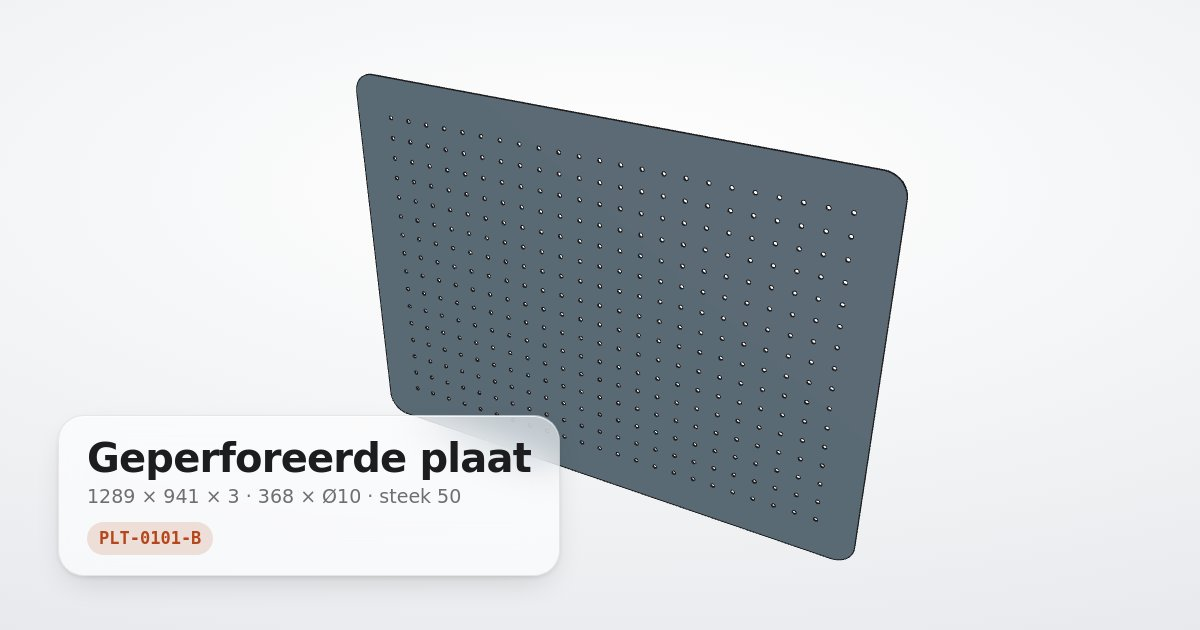
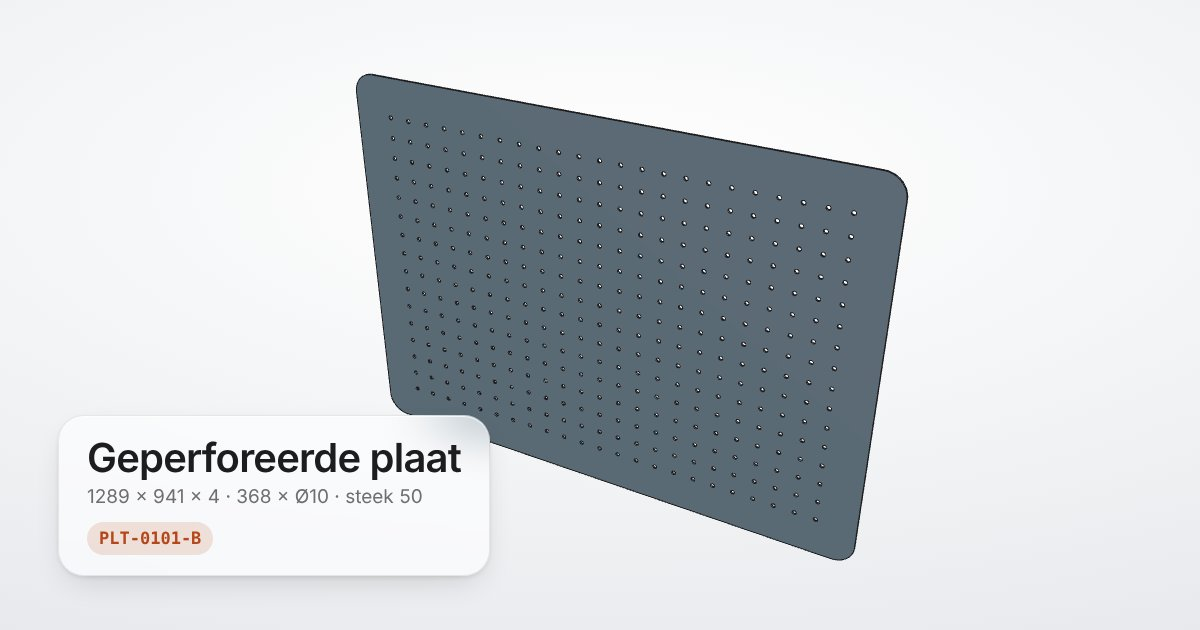
PLT-0101 revisie B (concept): dikte 4 mm
Dikte opgegeven door de eigenaar (was in A 3 mm aangenomen). B is nog een
concept, dus aangepast in B zelf; A blijft ongewijzigd (enkel linkvoorbeeld).

Claude-Session: https://claude.ai/code/session_01XXJD1Dkf3JZyJweGTUJbua

Changed region(s): [[0.0617, 0.6333, 0.4933, 0.8143], [0.4008, 0.9048, 0.4317, 0.9349]]

diff --git a/drawings/PLT-0101/B.html b/drawings/PLT-0101/B.html
@@ -5,11 +5,11 @@
 <meta name="viewport" content="width=device-width,initial-scale=1,viewport-fit=cover">
 <title>Geperforeerde plaat</title>
 <!-- link-preview -->
-<meta name="description" content="Plaat 1289 × 941 × 3 met hoeken R50 en gaten Ø10 op een vierkant raster, uit Plaat_perforaties_OpenSoon.dxf. Dikte aangenomen. Revisie B van 2026-11-16.">
+<meta name="description" content="Plaat 1289 × 941 met hoeken R50 en gaten Ø10 op een vierkant raster, uit Plaat_perforaties_OpenSoon.dxf. Revisie B van 2026-11-16.">
 <meta property="og:type" content="website">
 <meta property="og:site_name" content="Tekeningenregister">
 <meta property="og:title" content="Geperforeerde plaat · PLT-0101-B">
-<meta property="og:description" content="Plaat 1289 × 941 × 3 met hoeken R50 en gaten Ø10 op een vierkant raster, uit Plaat_perforaties_OpenSoon.dxf. Dikte aangenomen. Revisie B van 2026-11-16.">
+<meta property="og:description" content="Plaat 1289 × 941 met hoeken R50 en gaten Ø10 op een vierkant raster, uit Plaat_perforaties_OpenSoon.dxf. Revisie B van 2026-11-16.">
 <meta property="og:url" content="https://africabambaata.github.io/prototypes/drawings/PLT-0101/B.html">
 <meta property="og:image" content="https://africabambaata.github.io/prototypes/previews/PLT-0101-B.jpg">
 <meta property="og:image:type" content="image/jpeg">
@@ -28,9 +28,9 @@
 // DXF: buitencontour 1289 × 941 met hoekstraal R50 en 1395 gaten Ø10 (45 × 31) op een vierkant raster
 // met steek 25, symmetrisch in de plaat (randafstand 94,5 links/rechts, 95,5 onder/boven tot het gatmidden).
 // Revisie B: steek 50, dus om het andere gat van de DXF: 23 × 16 = 368 gaten, zelfde gatenveld en randafstanden.
-// De DXF is 2D: de dikte staat er niet in en is hier aangenomen.
+// De DXF is 2D: de dikte staat er niet in. Revisie A nam 3 mm aan; vanaf revisie B 4 mm (opgegeven door de eigenaar).
 // Plaat in het XY-vlak (vooraanzicht = gatenpatroon), dikte langs Z, oorsprong in het midden.
-const P = { W: 1289, H: 941, R: 50, T: 3, d: 10, pitch: 50, nx: 23, ny: 16 };
+const P = { W: 1289, H: 941, R: 50, T: 4, d: 10, pitch: 50, nx: 23, ny: 16 };
 const A = P.W / 2, B = P.H / 2, t = P.T / 2, r = P.d / 2, h = P.pitch / 2;
 const FX = P.nx * h, FY = P.ny * h;                          // half-maten van het geperforeerde veld (cellen van 25 × 25)
 const cx = i => (i - (P.nx - 1) / 2) * P.pitch;              // gatmiddens
@@ -59,7 +59,7 @@ DrawingViewer.create({
     { k: 'Tekeningnr.', v: 'PLT-0101-B' },
     { k: 'Afmetingen', v: `${P.W} × ${P.H} × ${P.T} · hoeken R${P.R}` },
     { k: 'Perforatie', v: `${nHoles} × Ø${P.d} (${P.nx} × ${P.ny}) · vierkant raster, steek ${P.pitch} · ±${fmt((Math.PI * r * r / (P.pitch * P.pitch) * 100).toFixed(1))} % open` },
-    { k: 'Dikte', v: `${P.T} mm aangenomen: niet opgegeven in de DXF` },
+    { k: 'Dikte', v: `${P.T} mm` },
     { k: 'Materiaal', v: 'Niet opgegeven' },
     { k: 'Eenheden · Schaal', v: 'mm · 1:10', units: 'mm', scale: true },
     { k: 'Bron', v: 'Plaat_perforaties_OpenSoon.dxf' },

diff --git a/drawings/PLT-0101/index.html b/drawings/PLT-0101/index.html
@@ -4,11 +4,11 @@
 <meta charset="utf-8">
 <meta name="viewport" content="width=device-width,initial-scale=1">
 <title>Geperforeerde plaat (PLT-0101-A)</title>
-<meta name="description" content="Plaat 1289 × 941 × 3 met hoeken R50 en gaten Ø10 op een vierkant raster, uit Plaat_perforaties_OpenSoon.dxf. Dikte aangenomen. Altijd de laatste revisie (nu A).">
+<meta name="description" content="Plaat 1289 × 941 met hoeken R50 en gaten Ø10 op een vierkant raster, uit Plaat_perforaties_OpenSoon.dxf. Altijd de laatste revisie (nu A).">
 <meta property="og:type" content="website">
 <meta property="og:site_name" content="Tekeningenregister">
 <meta property="og:title" content="Geperforeerde plaat · PLT-0101">
-<meta property="og:description" content="Plaat 1289 × 941 × 3 met hoeken R50 en gaten Ø10 op een vierkant raster, uit Plaat_perforaties_OpenSoon.dxf. Dikte aangenomen. Altijd de laatste revisie (nu A).">
+<meta property="og:description" content="Plaat 1289 × 941 met hoeken R50 en gaten Ø10 op een vierkant raster, uit Plaat_perforaties_OpenSoon.dxf. Altijd de laatste revisie (nu A).">
 <meta property="og:url" content="https://africabambaata.github.io/prototypes/drawings/PLT-0101/">
 <meta property="og:image" content="https://africabambaata.github.io/prototypes/previews/PLT-0101-A.jpg">
 <meta property="og:image:type" content="image/jpeg">

diff --git a/drawings/PLT-0101/A.html b/drawings/PLT-0101/A.html
@@ -5,11 +5,11 @@
 <meta name="viewport" content="width=device-width,initial-scale=1,viewport-fit=cover">
 <title>Geperforeerde plaat</title>
 <!-- link-preview -->
-<meta name="description" content="Plaat 1289 × 941 × 3 met hoeken R50 en gaten Ø10 op een vierkant raster, uit Plaat_perforaties_OpenSoon.dxf. Dikte aangenomen. Revisie A van 2026-11-16.">
+<meta name="description" content="Plaat 1289 × 941 met hoeken R50 en gaten Ø10 op een vierkant raster, uit Plaat_perforaties_OpenSoon.dxf. Revisie A van 2026-11-16.">
 <meta property="og:type" content="website">
 <meta property="og:site_name" content="Tekeningenregister">
 <meta property="og:title" content="Geperforeerde plaat · PLT-0101-A">
-<meta property="og:description" content="Plaat 1289 × 941 × 3 met hoeken R50 en gaten Ø10 op een vierkant raster, uit Plaat_perforaties_OpenSoon.dxf. Dikte aangenomen. Revisie A van 2026-11-16.">
+<meta property="og:description" content="Plaat 1289 × 941 met hoeken R50 en gaten Ø10 op een vierkant raster, uit Plaat_perforaties_OpenSoon.dxf. Revisie A van 2026-11-16.">
 <meta property="og:url" content="https://africabambaata.github.io/prototypes/drawings/PLT-0101/A.html">
 <meta property="og:image" content="https://africabambaata.github.io/prototypes/previews/PLT-0101-A.jpg">
 <meta property="og:image:type" content="image/jpeg">
